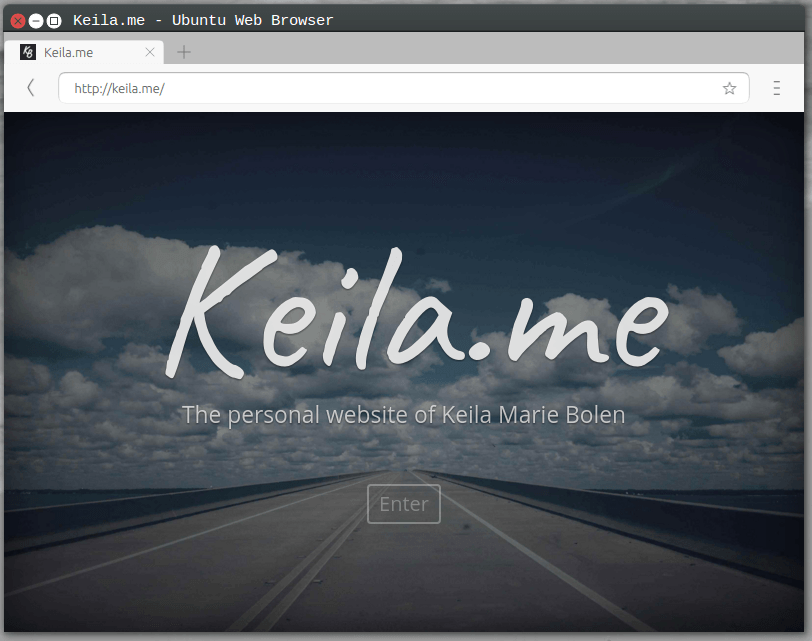
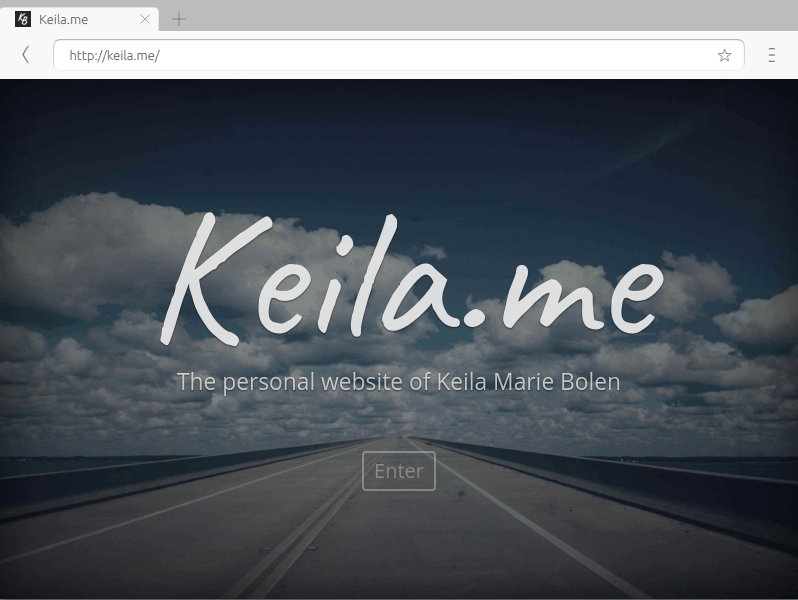
Update portfolio screenshots.

diff --git a/pages/portfolio.html b/pages/portfolio.html
@@ -1,2 +1,31 @@
-<h1 class="center">Portfolio</h1>
-<p>Coming soon.</p>
+<link href="/css/content.min.css" rel="stylesheet" type="text/css">
+<h1 id="content-section-header" class="center">Portfolio</h1>
+<div class="content-wrapper">
+  <div id="first" class="content-container">
+    <img class="content-image" src="/assets/images/screenshots/micah.tech-min.png" />
+    <div class="content-info">
+      <h2 class="content-title">Micah.tech</h2>
+      <p>Technology Blog</p>
+      <p><a target="_blank" href="http://micah.tech">Visit Site</a></p>
+    </div>
+  </div>
+  <div class="clear"></div>
+  <div id="second" class="content-container">
+    <img class="content-image" src="/assets/images/screenshots/humorouslysad.com-min.png" />
+    <div class="content-info">
+      <h2 class="content-title">Humorously Sad</h2>
+      <p>Funny Memes</p>
+      <p><a target="_blank" href="http://humorouslysad.com">Visit Site</a></p>
+    </div>
+  </div>
+  <div class="clear"></div>
+  <div id="third" class="content-container">
+    <img class="content-image" src="/assets/images/screenshots/keila.me-min.png" />
+    <div class="content-info">
+      <h2 class="content-title">Keila.me</h2>
+      <p>My Personal Website</p>
+      <p><a href="#">Visit Site</a></p>
+    </div>
+  </div>
+  <div class="clear"></div>
+</div>
